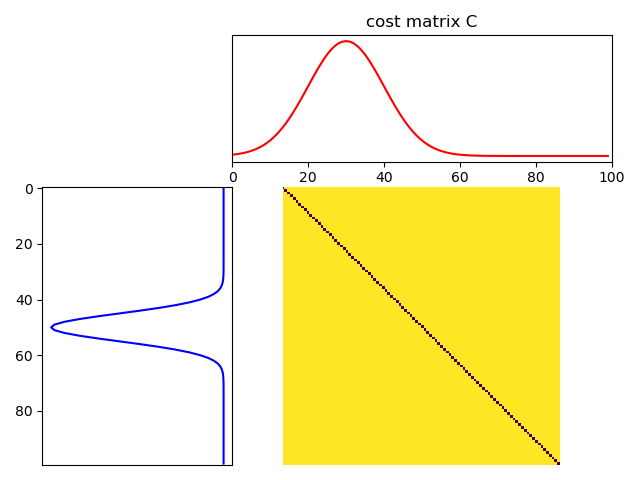
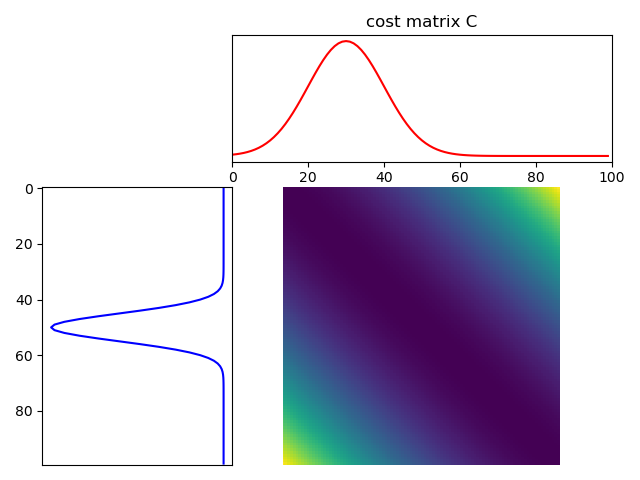
different epsilon

Changed region(s): [[0.4375, 0.375, 0.875, 0.9688]]

diff --git a/SinkhornEOT.py b/SinkhornEOT.py
@@ -9,7 +9,7 @@ from tqdm import tqdm
 
 # Sinkhorn parameters
 n = 100 # probability vectors in \R^n
-epsilon = 0.001 # regularization parameter
+epsilon = 0.5 # regularization parameter
 iters = 1000000 # number of iterations
 
 # Initializing marginal probability vectors
@@ -18,9 +18,9 @@ b = gauss(n, 30, 10)
 
 # Initialize cost matrix
 x = np.arange(n, dtype=np.float64) # vector in \R^n of the form [1,...,n]
-# C = ot.dist(x.reshape((n,1)), x.reshape((n,1))) # Euclidean metric as a cost function
+C = ot.dist(x.reshape((n,1)), x.reshape((n,1))) # Euclidean metric as a cost function
 # Another option (Jaccard metric) for the cost function can be the following
-C = ot.dist(x.reshape((n,1)), x.reshape((n,1)), metric='jaccard') 
+# C = ot.dist(x.reshape((n,1)), x.reshape((n,1)), metric='jaccard') 
 C = C/C.max() # normalize the cost to prevent overflow in computation
 
 print("max:",C.max(),"min:",C.min())
